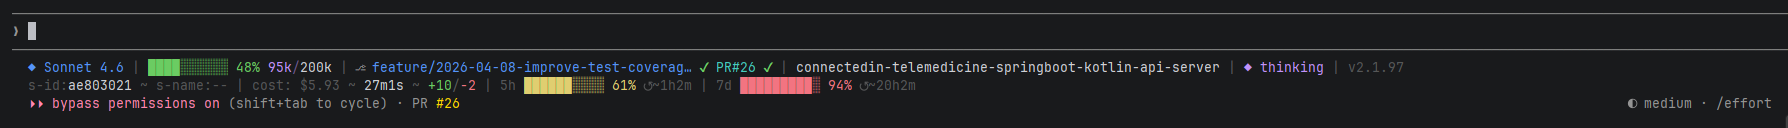
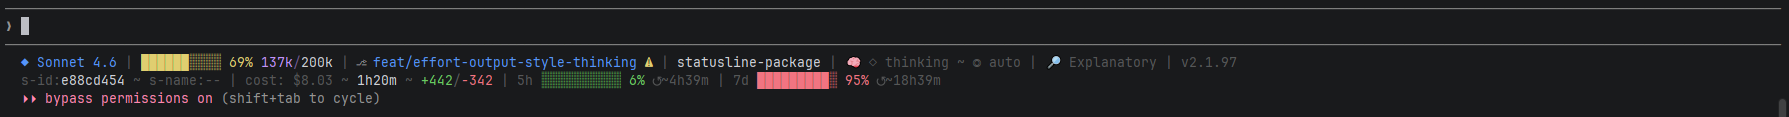
feat: add effort level, output style, and thinking indicators
- Replace thinking toggle (unreliable via meta+t) with combined
  🧠 thinking+effort block: ◆/◇ thinking ~ ◎/◔/◑/◕/● level
- Add output style indicator: ⚙ default / 🔎 explanatory / 🎓 learning
- Read thinking from JSON input (future) with settings file fallback
- Read effort from settings files (effortLevel key)
- Read output style from JSON input output_style.name with
  settings.local.json fallback (written by /config)
- Add .claude/settings.local.json with alwaysThinkingEnabled: true
- Update README with new elements, detail sections, and known limitations
- Update screenshot

diff --git a/README.md b/README.md
@@ -20,30 +20,30 @@ A multi-line, adaptive-width status line for Claude Code with configurable eleme
 
 **1-line** (`STATUSLINE_LINES=1`):
 ```
-◆ Opus 4.6 | ████░░░░░░ 48% 96k/1m | ⎇ main ✔ PR#42 ✔ | myapp | ◆ thinking | vim:N | v2.1.97 | s-id:abc123de | cost: $1.23 ~ 12m34s ~ +42/-8
+◆ Opus 4.6 | ████░░░░░░ 48% 96k/1m | ⎇ main ✔ PR#42 ✔ | myapp | 🧠  ◆ thinking ~ ◕ high | 🔎  explanatory | vim:N | v2.1.97 | s-id:abc123de | cost: $1.23 ~ 12m34s ~ +42/-8
 ```
 
 **2-line** (`STATUSLINE_LINES=2`, default):
 ```
-◆ Opus 4.6 | ████░░░░░░ 48% 96k/1m | ⎇ main ⚠ ↑2↓1 PR#42 ✔ | myapp | ◆ thinking | agent:review | vim:N | v2.1.97
+◆ Opus 4.6 | ████░░░░░░ 48% 96k/1m | ⎇ main ⚠ ↑2↓1 PR#42 ✔ | myapp | 🧠  ◇ thinking ~ ◎ auto | ⚙  default | agent:review | vim:N | v2.1.97
 s-id:abc123de ~ s-name:my-session | cost: $1.23 ~ 12m34s ~ +42/-8 | 5h ███░░░░░░░ 38% ↺~2h14m | 7d █░░░░░░░░░ 18% ↺~4d
 ```
 
 **2-line** (fresh session, minimal data):
 ```
-◆ Opus 4.6 | ░░░░░░░░░░ 0% 0/1.0m | ⎇ feature/my-branch ⚠ | myapp | ◆ thinking | v2.1.97
+◆ Opus 4.6 | ░░░░░░░░░░ 0% 0/1.0m | ⎇ feature/my-branch ⚠ | myapp | 🧠  ◇ thinking ~ ◎ auto | ⚙  default | v2.1.97
 s-id:536ea9b1 ~ s-name:-- | cost: -- ~ 1s ~ -- | 5h -- | 7d --
 ```
 
 **2-line** (high usage):
 ```
-◆ Opus 4.6 | ████░░░░░░ 40% 395k/1.0m ⚠ | ⎇ main ✔ | myapp | ◆ thinking | v2.1.97
+◆ Opus 4.6 | ████░░░░░░ 40% 395k/1.0m ⚠ | ⎇ main ✔ | myapp | 🧠  ◆ thinking ~ ● max | ⚙  default | v2.1.97
 s-id:1a0230da ~ s-name:improve-coverage | cost: $134.00 ~ 20h35m ~ +8477/-583 | 5h ██░░░░░░░░ 25% ↺~2h54m | 7d █████████░ 91% ↺~21h54m
 ```
 
 **3-line** (`STATUSLINE_LINES=3`):
 ```
-◆ Opus 4.6 | ████░░░░░░ 48% 96k/1m | ⎇ main ⚠ ↑2↓1 PR#42 ✔ | myapp | ◆ thinking | agent:review | vim:N | v2.1.97
+◆ Opus 4.6 | ████░░░░░░ 48% 96k/1m | ⎇ main ⚠ ↑2↓1 PR#42 ✔ | myapp | 🧠  ◆ thinking ~ ◕ high | 🎓  learning | agent:review | vim:N | v2.1.97
 s-id:abc123de ~ s-name:my-session | cost: $1.23 ~ 12m34s ~ +42/-8 | 5h ███░░░░░░░ 38% ↺~2h14m | 7d █░░░░░░░░░ 18% ↺~4d
 wt: name:feat-auth - path:~/.claude/worktrees/feat-auth - branch:worktree-feat-auth
 ```
@@ -67,11 +67,55 @@ wt: name:feat-auth - path:~/.claude/worktrees/feat-auth - branch:worktree-feat-a
 | PR mergeable | `✔` after PR# | PR can be merged (no conflicts) | green | `SHOW_PR` |
 | PR conflicting | `✗` after PR# | PR has merge conflicts | red | `SHOW_PR` |
 | Folder | `myapp` | Workspace directory basename (clickable to full path) | white | `SHOW_FOLDER` |
-| Thinking on | `◆ thinking` | Extended thinking is enabled | magenta | `SHOW_THINKING` |
-| Thinking off | `◇ thinking` | Extended thinking is disabled | dim | `SHOW_THINKING` |
+| Thinking + Effort | `🧠  ◆ thinking ~ ◕ high` | Combined block: thinking state and effort level | see below | `SHOW_THINKING` + `SHOW_EFFORT` |
+| Output style | `🔎  Explanatory` | Active output style (always shown) | dim label | `SHOW_OUTPUT_STYLE` |
 | Agent | `agent:review` | Agent name (only when `--agent` active) | dim + magenta | `SHOW_AGENT` |
 | Vim mode | `vim:N` / `vim:I` | Current vim mode | green=Normal, yellow=Insert | `SHOW_VIM_MODE` |
 | Version | `v2.1.97` | Claude Code version | dim | `SHOW_VERSION` |
+
+#### Thinking & Effort Detail
+
+Thinking and effort are rendered as a single combined block:
+
+```
+🧠  ◆ thinking ~ ◕ high     (thinking on, effort high)
+🧠  ◇ thinking ~ ◎ auto     (thinking off, effort auto/default)
+```
+
+**Thinking state** — `◆ thinking` when on, `◇ thinking` when off:
+
+Priority order for reading the state:
+1. `is_thinking` / `thinking` / `alwaysThinkingEnabled` field in the statusline JSON input (live session state, if Claude Code exposes it in a future version)
+2. `alwaysThinkingEnabled` in `.claude/settings.local.json` (project-level, written by `/config`)
+3. `alwaysThinkingEnabled` in `~/.claude/settings.local.json` (global local overrides)
+4. `alwaysThinkingEnabled` in `.claude/settings.json` (project-level)
+5. `alwaysThinkingEnabled` in `~/.claude/settings.json` (global)
+
+> **Known limitation:** Claude Code does **not** currently expose thinking state in the statusline JSON input. The `meta+t` shortcut toggles thinking in-memory only (not written to disk) — the statusline cannot detect this. You will see Claude Code's own "Thinking on / Thinking off" overlay at the right edge of the statusline, but our `◆`/`◇` indicator will not change.
+>
+> Toggling via `/config` **does** write to `settings.local.json` and will be reflected after the next assistant response.
+
+**Effort level** (read from `effortLevel` in settings files, same priority order minus JSON):
+
+| Value | Icon | Note |
+|-------|------|------|
+| absent / `auto` | `◎` | Default — Claude chooses effort (equivalent to `high`) |
+| `low` | `◔` | Quick, minimal overhead |
+| `medium` | `◑` | Balanced |
+| `high` | `◕` | Thorough |
+| `max` | `●` | Maximum effort |
+
+Set via `/effort <level>` or `/config`. Setting to `auto` removes the key from settings entirely.
+
+#### Output Style Detail
+
+Always shown. Reads from `output_style.name` in the statusline JSON input (live), falling back to `outputStyle` in `settings.local.json`.
+
+| Style | Icon | Set via |
+|-------|------|---------|
+| `default` | `⚙` | `/config` or absent |
+| `explanatory` | `🔎` | `/config` |
+| `learning` | `🎓` | `/config` |
 
 #### L2: Session Metadata
 
@@ -208,7 +252,9 @@ SHOW_MODEL=true
 SHOW_TOKENS=true
 SHOW_GIT=true
 SHOW_FOLDER=true
-SHOW_THINKING=true
+SHOW_THINKING=true      # thinking + effort combined block
+SHOW_EFFORT=true        # part of thinking+effort block
+SHOW_OUTPUT_STYLE=true
 SHOW_AGENT=true
 SHOW_VIM_MODE=true
 SHOW_VERSION=true
@@ -226,7 +272,7 @@ SHOW_CLICKABLE_LINKS=true
 Elements are grouped by line in arrays at the bottom of the script:
 
 ```bash
-L1=(render_model render_tokens render_git render_folder render_thinking render_agent render_vim render_version)
+L1=(render_model render_tokens render_git render_folder render_thinking_effort render_output_style render_agent render_vim render_version)
 L2=(render_session_ids render_cost_group render_rate_5h render_rate_7d)
 L3=(render_worktree)
 ```
@@ -311,6 +357,9 @@ See [docs/rate-limit-staleness.md](docs/rate-limit-staleness.md) for full detail
 | ✔/⚠ not showing | Only appears when CWD is a git repository with cached status. |
 | PR# not showing | Requires `gh` CLI installed and authenticated. Hidden when no PR exists for branch. |
 | PR ✔/✗ not showing | Merge status requires GitHub to compute mergeability. Shows nothing if status is `UNKNOWN`. |
+| `◆`/`◇ thinking` not updating on `meta+t` | `meta+t` is in-memory only — not written to disk and not exposed in the statusline JSON. Claude Code shows its own "Thinking on/off" overlay instead. Use `/config` to toggle persistently — it writes to `settings.local.json` and the indicator updates after the next response. |
+| Effort level not showing | Set via `/effort <level>` or `/config`. `auto` removes the key (shows `◎ auto`). |
+| Output style not showing | Reads from `output_style.name` in JSON input. Ensure Claude Code v2.1+ and start a fresh session. |
 
 ## Uninstall
 
